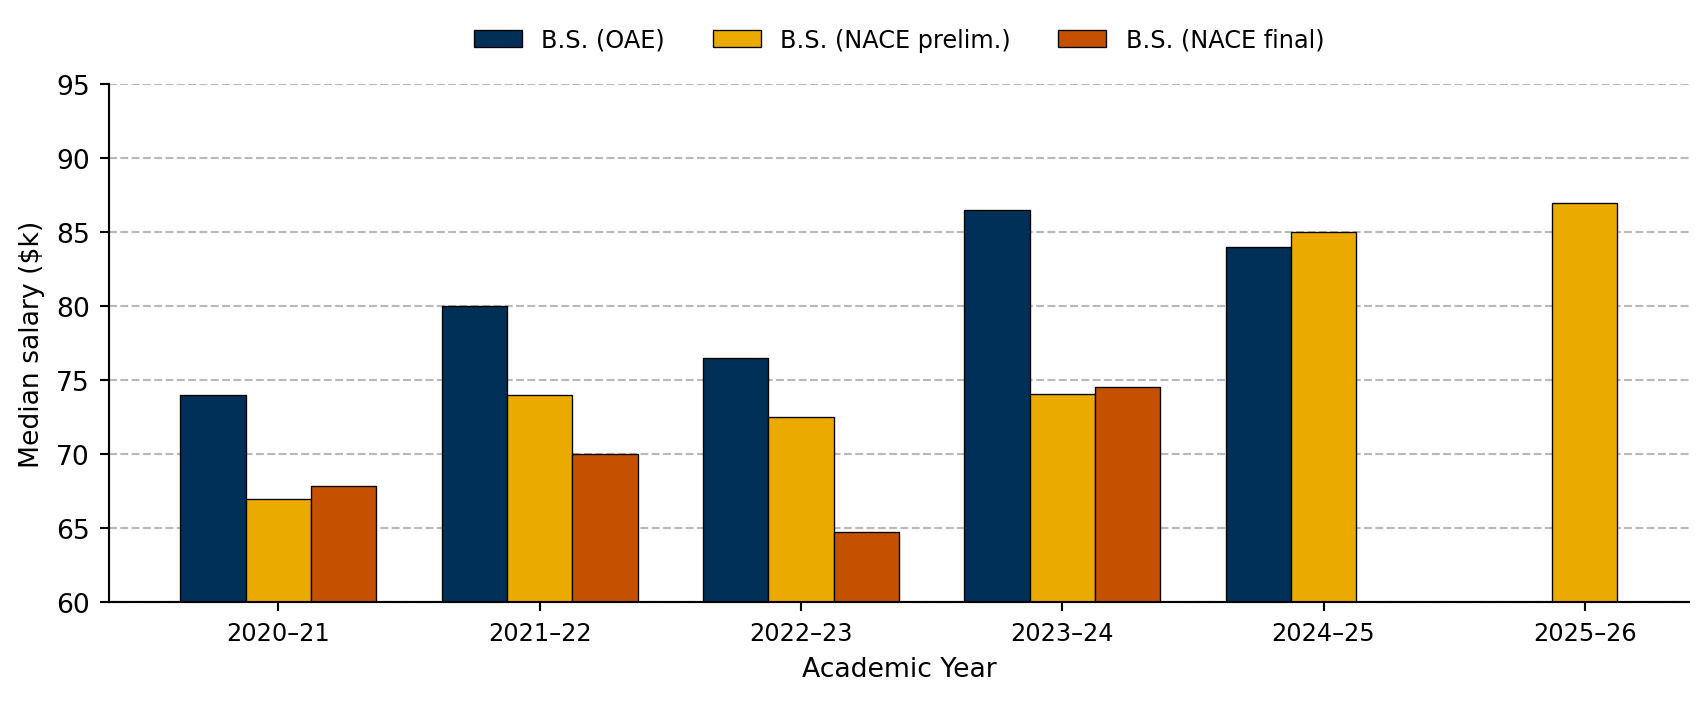
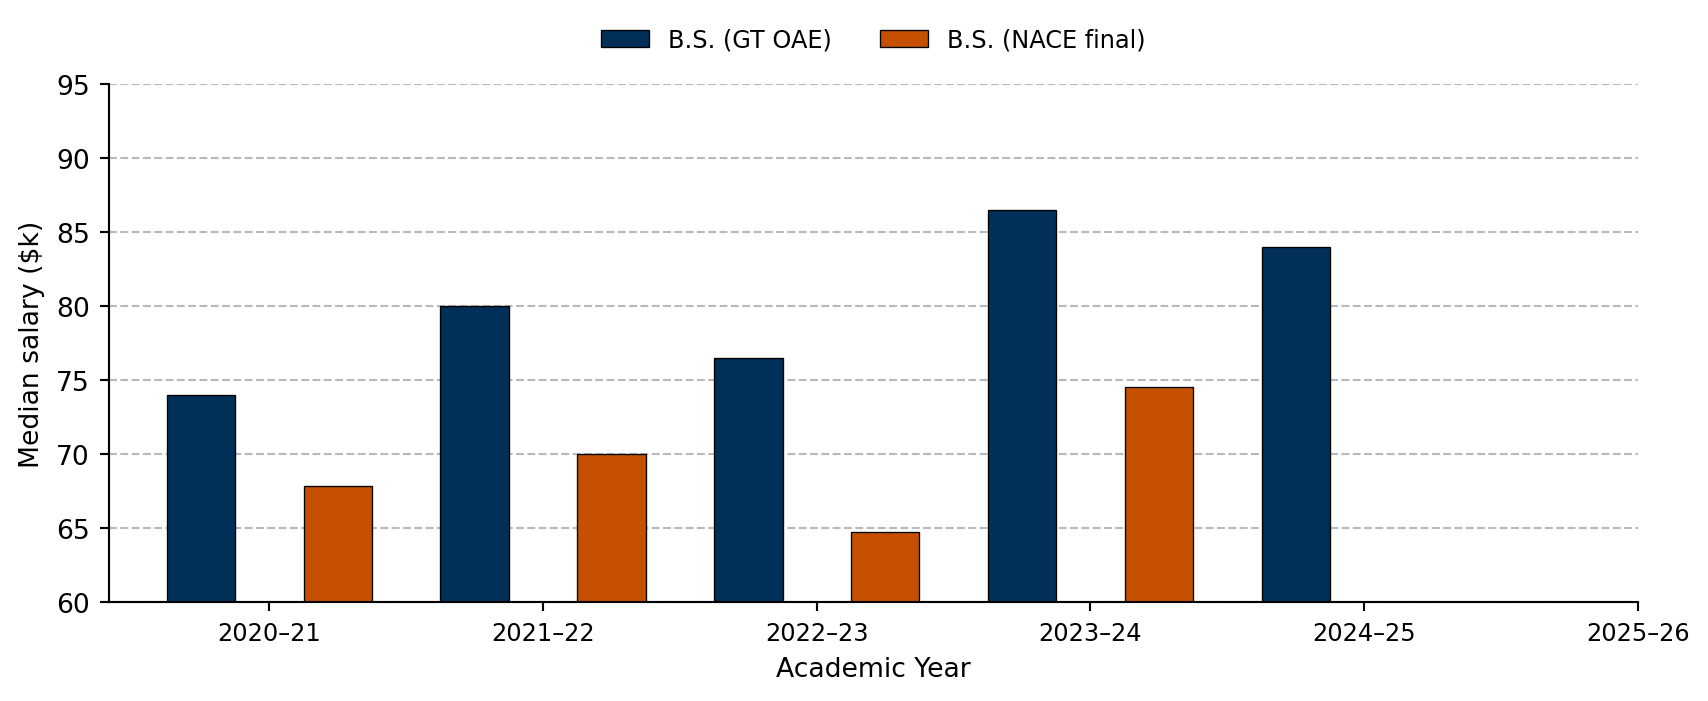
Built site for gh-pages

diff --git a/lectures/lecture-01.html b/lectures/lecture-01.html
@@ -195,7 +195,7 @@ Andrew J. Steinmetz
 </section>
 <section id="b.s.-physics-starting-salaries" class="slide level2">
 <h2>B.S. Physics Starting Salaries</h2>
-<div id="fcbed315" class="cell" data-execution_count="1">
+<div id="0cf1ddd7" class="cell" data-execution_count="1">
 <div class="cell-output cell-output-display">
 <div class="quarto-figure quarto-figure-center">
 <figure>